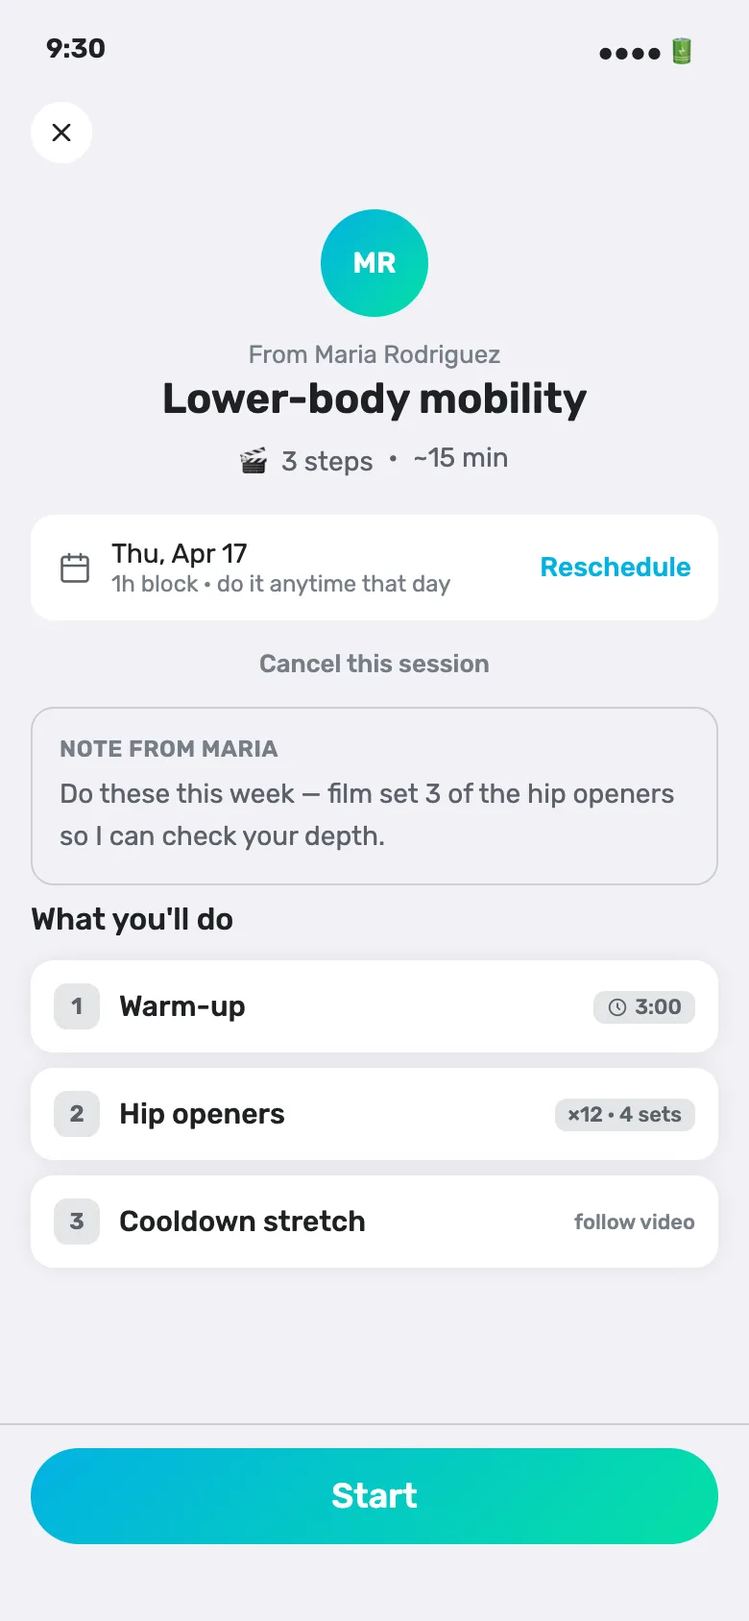
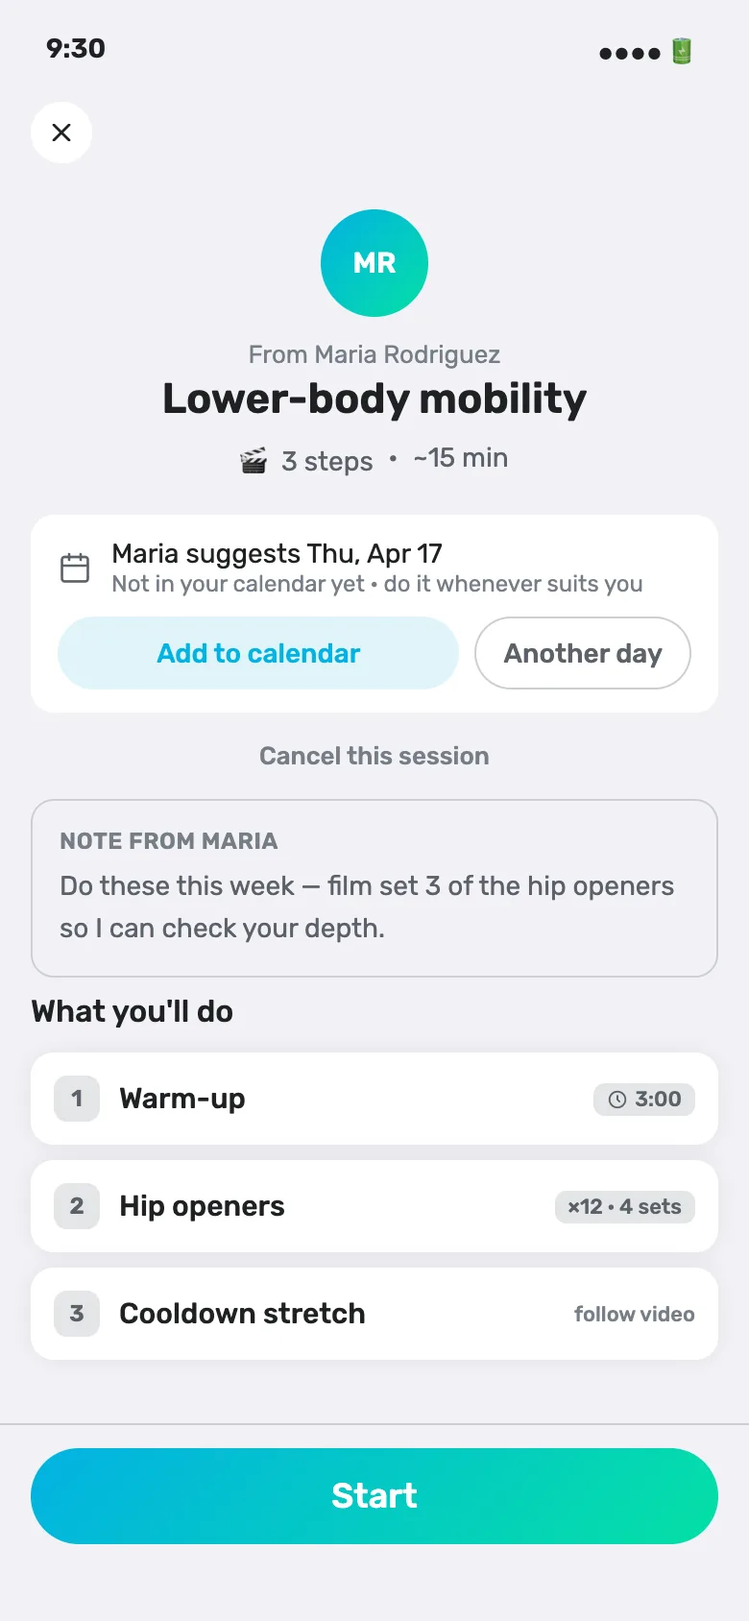
Self-paced: the athlete schedules it, the coach only suggests a day
The rule said a booked self-paced lands as a default 1-hour event in the
athlete's calendar. Nobody built it, and the reason was sitting in the
sentence: it never said at what hour, and a default block cannot be
implemented without one. It would not have been worth building either — a
block nobody chose collides with real appointments and gets dismissed, and
the reminder is what this type leans on.

So the coach's day becomes a suggestion and the athlete places it. Welcome
has two states: not in calendar, offering Add to calendar with the hour on
the canonical wheel and the day pre-filled from the coach, and Another day;
or scheduled, showing the slot and saying that only they can see it.
Scheduling never gates Start — an athlete who opened the session to train
right now must not be asked when they plan to train, and skipping it stays a
legitimate end state.

Nothing reaches the coach's calendar, because self-paced does not occupy the
coach's time. What the coach gets instead is a line inside the session:
planned, then scheduled, then completed. The hour shows only once the athlete
deliberately set one — for a do-it-whenever product, broadcasting an hour
they never chose is surveillance rather than information. Moving to another
day still notifies the coach; the hour is theirs and changing it is silent.

For the backend this moves the event creation from the coach's Send to the
athlete's scheduling action, which supersedes impl-audit gap 4 — that gap was
[…]

diff --git a/prototypes/flows/shared/self-paced.html b/prototypes/flows/shared/self-paced.html
@@ -480,7 +480,7 @@
             <div style="flex:1;min-width:0;"><div class="spq-name">Paul Weber</div><div class="spq-sub"><span class="spq-tag"><svg viewBox="0 0 24 24" fill="none" stroke="currentColor" stroke-width="2"><rect x="3" y="6" width="13" height="12" rx="2"/><path d="M16 9l5-2v10l-5-2z"/></svg>Self-paced</span> sent 2 days ago</div></div>
           </div>
           <div class="spq-title">Mobility reset</div>
-          <div class="spq-meta"><svg viewBox="0 0 24 24" fill="none" stroke="currentColor" stroke-width="2" stroke-linecap="round" stroke-linejoin="round"><circle cx="12" cy="12" r="9"/><path d="M12 7v5l3 3"/></svg>Waiting for Paul to do it · 3 steps</div>
+          <div class="spq-meta"><svg viewBox="0 0 24 24" fill="none" stroke="currentColor" stroke-width="2" stroke-linecap="round" stroke-linejoin="round"><rect x="3" y="4" width="18" height="17" rx="2"/><path d="M16 2v4M8 2v4M3 10h18"/></svg>Scheduled Thu, Apr 17 · 19:00 &middot; 3 steps</div>
         </div>
         <div class="spq">
           <div class="spq-head" style="cursor:default;">
@@ -991,11 +991,24 @@
       <div style="font-size:22px;font-weight:600;color:var(--fit-text-primary);margin-top:2px;">Lower-body mobility</div>
       <div style="font-size:14px;color:var(--fit-text-secondary);margin-top:6px;display:inline-flex;align-items:center;gap:8px;"><span>🎬 3 steps</span><span>·</span><span>~15 min</span></div>
     </div>
-    <!-- Day-bound schedule + free reschedule -->
-    <div style="margin:0 16px 16px;padding:12px 14px;border-radius:12px;background:var(--fit-surface-high);display:flex;align-items:center;gap:10px;">
-      <svg width="18" height="18" viewBox="0 0 24 24" fill="none" stroke="var(--fit-text-secondary)" stroke-width="1.8" stroke-linecap="round" stroke-linejoin="round" style="flex-shrink:0;"><rect x="3" y="4" width="18" height="17" rx="2"/><path d="M16 2v4M8 2v4M3 10h18"/></svg>
-      <div style="flex:1;min-width:0;"><div style="font-size:14px;color:var(--fit-text-primary);">Thu, Apr 17</div><div style="font-size:12px;color:var(--fit-text-tertiary);">1h block · do it anytime that day</div></div>
-      <button style="border:none;background:transparent;color:var(--fit-brand-primary);font-family:var(--fit-font);font-size:14px;font-weight:500;cursor:pointer;" onclick="document.getElementById('resched-sheet').classList.add('visible')">Reschedule</button>
+    <!-- The coach picks a DAY and it is a suggestion, not an appointment: there is no hour to
+         inherit, and a block the athlete never chose is noise they will ignore. So the athlete
+         puts it in their own calendar, with a time they picked — and that act is optional and
+         never gates Start. Nothing of this ever reaches the coach's calendar. -->
+    <div data-sched="none" style="margin:0 16px 16px;padding:12px 14px;border-radius:12px;background:var(--fit-surface-high);">
+      <div style="display:flex;align-items:center;gap:10px;">
+        <svg width="18" height="18" viewBox="0 0 24 24" fill="none" stroke="var(--fit-text-secondary)" stroke-width="1.8" stroke-linecap="round" stroke-linejoin="round" style="flex-shrink:0;"><rect x="3" y="4" width="18" height="17" rx="2"/><path d="M16 2v4M8 2v4M3 10h18"/></svg>
+        <div style="flex:1;min-width:0;"><div style="font-size:14px;color:var(--fit-text-primary);">Maria suggests Thu, Apr 17</div><div style="font-size:12px;color:var(--fit-text-tertiary);">Not in your calendar yet · do it whenever suits you</div></div>
+      </div>
+      <div style="display:flex;gap:8px;margin-top:10px;">
+        <button data-a11y-id="athlete.self-paced.schedule" style="flex:1;height:38px;border:none;border-radius:99px;background:rgba(0,167,208,0.12);color:var(--fit-brand-primary);font-family:var(--fit-font);font-size:14px;font-weight:500;cursor:pointer;" onclick="document.getElementById('sp-schedule-sheet').classList.add('visible')">Add to calendar</button>
+        <button data-a11y-id="athlete.self-paced.change-day" style="height:38px;padding:0 14px;border:1px solid var(--fit-divider);border-radius:99px;background:transparent;color:var(--fit-text-secondary);font-family:var(--fit-font);font-size:14px;font-weight:500;cursor:pointer;" onclick="document.getElementById('resched-sheet').classList.add('visible')">Another day</button>
+      </div>
+    </div>
+    <div data-sched="set" style="display:none;margin:0 16px 16px;padding:12px 14px;border-radius:12px;background:var(--fit-surface-high);align-items:center;gap:10px;">
+      <svg width="18" height="18" viewBox="0 0 24 24" fill="none" stroke="var(--fit-teal-500)" stroke-width="1.8" stroke-linecap="round" stroke-linejoin="round" style="flex-shrink:0;"><rect x="3" y="4" width="18" height="17" rx="2"/><path d="M16 2v4M8 2v4M3 10h18"/><path d="M9 15l2 2 4-4"/></svg>
+      <div style="flex:1;min-width:0;"><div style="font-size:14px;color:var(--fit-text-primary);">In your calendar &middot; <span id="sp-sched-when">Thu, Apr 17 at 19:00</span></div><div style="font-size:12px;color:var(--fit-text-tertiary);">Only you see it &mdash; never on Maria&rsquo;s calendar</div></div>
+      <button data-a11y-id="athlete.self-paced.reschedule" style="border:none;background:transparent;color:var(--fit-brand-primary);font-family:var(--fit-font);font-size:14px;font-weight:500;cursor:pointer;" onclick="document.getElementById('sp-schedule-sheet').classList.add('visible')">Change</button>
     </div>
     <div style="text-align:center;margin:-4px 16px 14px;">
       <button style="border:none;background:transparent;color:var(--fit-text-tertiary);font-family:var(--fit-font);font-size:13px;font-weight:500;cursor:pointer;" onclick="document.getElementById('sp-cancel-sheet').classList.add('visible')">Cancel this session</button>
@@ -1015,12 +1028,52 @@
     <button data-wlc="paid" onclick="go('s-player',null)" style="width:100%;height:50px;border:none;border-radius:99px;background:var(--fit-brand-gradient);color:#fff;font-family:var(--fit-font);font-size:18px;font-weight:500;cursor:pointer;">Start</button>
     <button data-wlc="unpaid" onclick="go('s-player',null)" style="width:100%;height:50px;border:none;border-radius:99px;background:var(--fit-brand-gradient);color:#fff;font-family:var(--fit-font);font-size:18px;font-weight:500;cursor:pointer;">Pay €12 &amp; start</button>
   </div>
+  <!-- Put it in the athlete's own calendar. Day defaults to the coach's suggestion; the hour is
+       the athlete's, and it is the only hour anyone ever sees. Canonical fit-wheel-picker. -->
+  <div class="fit-sheet-overlay" id="sp-schedule-sheet">
+    <div class="fit-sheet tp-sheet"><div class="fit-sheet-handle"></div>
+      <div style="font-size:18px;font-weight:600;margin-bottom:4px;">Add to your calendar</div>
+      <div style="font-size:13px;color:var(--fit-text-secondary);margin-bottom:16px;">Pick when you&rsquo;ll do it. Only you see this block &mdash; it never appears on Maria&rsquo;s calendar.</div>
+      <div class="fit-input" style="cursor:pointer;margin-bottom:14px;" onclick="document.getElementById('sp-schedule-sheet').classList.remove('visible');document.getElementById('resched-sheet').classList.add('visible')">
+        <span class="fit-input-icon"><svg class="i" viewBox="0 0 24 24" fill="none" stroke="currentColor" stroke-width="1.8" stroke-linecap="round" stroke-linejoin="round"><rect x="3" y="4" width="18" height="17" rx="2"/><path d="M16 2v4M8 2v4M3 10h18"/></svg></span>
+        Thu, Apr 17<span class="fit-input-chevron"><svg width="16" height="16" viewBox="0 0 24 24" fill="none" stroke="currentColor" stroke-width="2" stroke-linecap="round" stroke-linejoin="round"><path d="M9 18l6-6-6-6"/></svg></span>
+      </div>
+      <div class="fit-wheel-picker">
+        <div class="fit-wheel-col">
+          <span class="fit-wheel-label">Hour</span>
+          <div class="fit-wheel-scroll">
+            <div class="fit-wheel-item dim">17</div>
+            <div class="fit-wheel-item dim">18</div>
+            <div class="fit-wheel-item active">19</div>
+            <div class="fit-wheel-item dim">20</div>
+            <div class="fit-wheel-item dim">21</div>
+          </div>
+          <div class="fit-wheel-fade-top"></div>
+          <div class="fit-wheel-fade-bottom"></div>
+        </div>
+        <div class="fit-wheel-col">
+          <span class="fit-wheel-label">Minutes</span>
+          <div class="fit-wheel-scroll">
+            <div class="fit-wheel-item active">00</div>
+            <div class="fit-wheel-item dim">15</div>
+            <div class="fit-wheel-item dim">30</div>
+            <div class="fit-wheel-item dim">45</div>
+          </div>
+          <div class="fit-wheel-fade-top"></div>
+          <div class="fit-wheel-fade-bottom"></div>
+        </div>
+      </div>
+      <button class="fit-btn fit-btn-primary" data-a11y-id="athlete.self-paced.schedule.confirm" style="border-radius:99px;margin-top:20px;" onclick="spSchedule('Thu, Apr 17 at 19:00')">Add to calendar &middot; 19:00</button>
+      <button style="width:100%;height:50px;margin-top:8px;border:none;border-radius:99px;background:transparent;color:var(--fit-text-secondary);font-family:var(--fit-font);font-size:16px;font-weight:500;cursor:pointer;" onclick="document.getElementById('sp-schedule-sheet').classList.remove('visible')">Cancel</button>
+    </div>
+  </div>
+
   <!-- Reschedule sheet (day picker; coach notified only on day-change) -->
   <div class="fit-sheet-overlay" id="resched-sheet">
     <div class="fit-sheet">
       <div class="fit-sheet-handle"></div>
-      <div style="font-size:18px;font-weight:600;margin-bottom:4px;">Move to another day</div>
-      <div style="font-size:13px;color:var(--fit-text-secondary);margin-bottom:14px;">Pick a new day — you can do it anytime that day. Changing the <strong>time</strong> within a day is silent; moving to a <strong>different day</strong> lets Maria know.</div>
+      <div style="font-size:18px;font-weight:600;margin-bottom:4px;">Pick a day</div>
+      <div style="font-size:13px;color:var(--fit-text-secondary);margin-bottom:14px;">Maria suggested Thu, Apr 17 — you can do it whenever. The <strong>hour</strong> you pick stays yours; moving to a <strong>different day</strong> lets Maria know.</div>
       <div class="fit-sheet-item" onclick="document.getElementById('resched-sheet').classList.remove('visible');spSnack('Moved to Fri, Apr 18 · Maria notified')">Fri, Apr 18</div>
       <div class="fit-sheet-item" onclick="document.getElementById('resched-sheet').classList.remove('visible');spSnack('Moved to Sat, Apr 19 · Maria notified')">Sat, Apr 19</div>
       <div class="fit-sheet-item" onclick="document.getElementById('resched-sheet').classList.remove('visible');spSnack('Moved to Mon, Apr 21 · Maria notified')">Mon, Apr 21</div>
@@ -1347,10 +1400,23 @@
   </div>
 
   <div class="ann" id="ann-s-welcome"><span class="ann-role athlete">Athlete</span>
+    <div class="state-toggle">
+      <button class="active" onclick="spSchedState('none',this)">Not in calendar</button>
+      <button onclick="spSchedState('set',this)">Scheduled</button>
+    </div>
     <div class="state-toggle"><button class="active" onclick="setWlc('paid',this)">Already paid</button><button onclick="setWlc('unpaid',this)">Coach-initiated</button></div>
     <h3>Welcome / intro</h3>
     <p>What the coach prepared: title · steps · ~total time · note · step preview. Then start.</p>
     <ul><li><strong>Already paid</strong> (athlete booked) → CTA <strong>Start</strong>.</li><li><strong>Coach-initiated</strong> (coach pushed it, not yet paid) → CTA <strong>Pay €12 &amp; start</strong>.</li></ul>
+    <hr>
+    <p><strong>The coach's day is a suggestion, and putting it in a calendar is the athlete's act.</strong> The coach picks a day and never an hour — self-paced has no appointment to keep — so there is no time to inherit. The spec used to say a 1-hour block appears automatically, but it never said <em>at what hour</em>, which is exactly why it was never built: you cannot implement a default block without knowing when. And a block nobody chose is noise that gets ignored, which kills the reminder the product depends on.</p>
+    <ul>
+      <li><strong>Not in calendar</strong> (default) — "Maria suggests Thu, Apr 17 · not in your calendar yet". Two actions: <em>Add to calendar</em> (wheel picker for the hour, day pre-filled with the coach's) and <em>Another day</em>.</li>
+      <li><strong>Scheduled</strong> — "In your calendar · Thu, Apr 17 at 19:00 · only you see it".</li>
+      <li><strong>Start is never gated by either.</strong> An athlete who opened it to train right now must not be asked when they plan to train.</li>
+      <li><strong>Nothing reaches the coach's calendar</strong> — self-paced does not occupy the coach's time, so it must not occupy their grid. What the coach gets instead is a line inside the session: <em>Planned for Thu, Apr 17</em> → <em>Scheduled Thu, Apr 17 · 19:00</em> → <em>Completed Thu, Apr 17 · 19:42</em>. The hour only appears once the athlete deliberately set one — for a "do it whenever" product, broadcasting an hour they never chose would be surveillance.</li>
+    </ul>
+    <p class="note">Moving to a <strong>different day</strong> still notifies the coach; the <strong>hour</strong> is the athlete's alone and changing it is silent.</p>
   </div>
 
   <div class="ann" id="ann-s-player"><span class="ann-role athlete">Athlete</span>
@@ -1432,6 +1498,20 @@ window.addEventListener('DOMContentLoaded', function(){
 function spSetupBack(){
   if (new URLSearchParams(location.search).get('offering')) { history.back(); return; }
   go('s-queue', null);
+}
+// Scheduling is the athlete's act, so the card flips only once they have done it. The coach
+// never gets a calendar entry - they see the chosen slot inside the session instead.
+function spSchedule(when){
+  var sh=document.getElementById('sp-schedule-sheet'); if(sh) sh.classList.remove('visible');
+  var w=document.getElementById('sp-sched-when'); if(w) w.textContent=when;
+  spSchedState('set');
+  spSnack('Added to your calendar \u00b7 ' + when);
+}
+function spSchedState(state, btn){
+  if(btn){ btn.parentElement.querySelectorAll('button').forEach(function(b){b.classList.remove('active');}); btn.classList.add('active'); }
+  document.querySelectorAll('#s-welcome [data-sched]').forEach(function(el){
+    el.style.display = (el.dataset.sched===state) ? (state==='set'?'flex':'block') : 'none';
+  });
 }
 function splClearCoach(){ var el=document.getElementById('spl-coach-filter'); if(el) el.style.display='none'; }
 function setSt(id, state, btn) { if(btn){btn.parentElement.querySelectorAll('button').forEach(b=>b.classList.remove('active'));btn.classList.add('active');} var el=document.getElementById(id); el.classList.remove('ls-default','ls-empty','ls-loading'); el.classList.add('ls-'+state); }

diff --git a/prototypes/board/board-data.js b/prototypes/board/board-data.js
@@ -1542,7 +1542,7 @@ window.FIT_BOARD = {
       "screens": [
         {
           "id": "s-overview",
-          "hash": "4ed3fdcc0256",
+          "hash": "85971873aa8a",
           "title": "Overview",
           "inApp": "Self-paced — flow",
           "status": "canon",
@@ -1561,7 +1561,7 @@ window.FIT_BOARD = {
         },
         {
           "id": "s-queue",
-          "hash": "43d3d029069e",
+          "hash": "83f1fa306dd7",
           "title": "Requests + review",
           "inApp": "Self-paced",
           "status": "canon",
@@ -1589,7 +1589,7 @@ window.FIT_BOARD = {
         },
         {
           "id": "s-inbox",
-          "hash": "e176689b77ee",
+          "hash": "403bf188fcab",
           "title": "↳ in unified Inbox",
           "inApp": "Inbox",
           "status": "canon",
@@ -1609,7 +1609,7 @@ window.FIT_BOARD = {
         },
         {
           "id": "s-setup",
-          "hash": "29bb15a479a3",
+          "hash": "68948e138d1a",
           "title": "Setup builder",
           "inApp": "Set up for Anna",
           "status": "canon",
@@ -1648,7 +1648,7 @@ window.FIT_BOARD = {
         },
         {
           "id": "s-step",
-          "hash": "115ac513b942",
+          "hash": "a69e8d786b04",
           "title": "Step editor",
           "inApp": "Edit step",
           "status": "canon",
@@ -1668,7 +1668,7 @@ window.FIT_BOARD = {
         },
         {
           "id": "s-review",
-          "hash": "720d133ba684",
+          "hash": "dcb6e4891fa0",
           "title": "Review submission",
           "inApp": "Review · Julia",
           "status": "canon",
@@ -1694,7 +1694,7 @@ window.FIT_BOARD = {
         },
         {
           "id": "s-history",
-          "hash": "d6e252fe9949",
+          "hash": "05de0a3d3a24",
           "title": "Client history",
           "inApp": "Julia · self-paced",
           "status": "legacy",
@@ -1714,7 +1714,7 @@ window.FIT_BOARD = {
         },
         {
           "id": "s-library",
-          "hash": "1e886b9ec2ac",
+          "hash": "f7a22e20fc1d",
           "title": "Coach library",
           "inApp": "Video library",
           "status": "canon",
@@ -1734,7 +1734,7 @@ window.FIT_BOARD = {
         },
         {
           "id": "s-book",
-          "hash": "bf7b1b869531",
+          "hash": "cf69d2152495",
           "title": "Book offering",
           "inApp": "Book training",
           "status": "canon",
@@ -1754,7 +1754,7 @@ window.FIT_BOARD = {
         },
         {
           "id": "s-list",
-          "hash": "4406f00c2e73",
+          "hash": "07d93f6d05af",
           "title": "My self-paced",
           "inApp": "Self-paced training",
           "status": "canon",
@@ -1780,7 +1780,7 @@ window.FIT_BOARD = {
         },
         {
           "id": "s-welcome",
-          "hash": "a9a344dd62f5",
+          "hash": "e9f73ec3dde1",
           "title": "Welcome / intro",
           "inApp": "",
           "status": "canon",
@@ -1806,7 +1806,7 @@ window.FIT_BOARD = {
         },
         {
           "id": "s-player",
-          "hash": "75d2bcefb367",
+          "hash": "a2e5680f8454",
           "title": "Player",
           "inApp": "",
           "status": "canon",
@@ -1826,7 +1826,7 @@ window.FIT_BOARD = {
         },
         {
           "id": "s-complete",
-          "hash": "8c154e805b19",
+          "hash": "d73dc6809161",
           "title": "Complete + upload",
           "inApp": "Nice work 🎉",
           "status": "canon",
@@ -1846,7 +1846,7 @@ window.FIT_BOARD = {
         },
         {
           "id": "s-comments",
-          "hash": "da975b57774f",
+          "hash": "230017c5da47",
           "title": "Athlete view",
           "inApp": "Lower-body mobility",
           "status": "canon",
@@ -1872,7 +1872,7 @@ window.FIT_BOARD = {
         },
         {
           "id": "s-trim",
-          "hash": "026c31fd8fa8",
+          "hash": "ad17f279fee7",
           "title": "Trim clip",
           "inApp": "Trim clip",
           "status": "canon",
@@ -1892,7 +1892,7 @@ window.FIT_BOARD = {
         },
         {
           "id": "s-upload",
-          "hash": "cc6827f5d300",
+          "hash": "8d49f756134b",
           "title": "Uploading (Mux)",
           "inApp": "Uploading",
           "status": "canon",

diff --git a/specs/self-paced.md b/specs/self-paced.md
@@ -164,7 +164,7 @@ Two rules that follow:
 - **Athlete Dashboard** *(reworked 2026-08-26)* — the hero slot is **`Next up`**, and it holds **whatever training comes first, timed or not**. A self-paced due *today* outranks a live session *tomorrow*. Previously the card could only hold something with a clock time, so self-paced was pushed into "Needs your attention" and the dashboard **showed tomorrow above today** — and went hollow entirely for an athlete who trains mostly self-paced. The self-paced shape leads with the **workout title** (the coach is secondary, there is no venue), carries the violet type tint, and its when-line reads **"Today · anytime"** — no clock, because the day *is* the appointment.
   - Only the **overdue** self-paced stays in *Needs your attention* → `#s-welcome`. "Do it today" is not an alert, it is the plan.
   - The centred **"See all self-paced"** link was **removed** from the middle of the attention list — it read as a section footer while four unrelated rows continued below it, and existed only because it was the single global door to the aggregate list.
-  - **Athlete-side durable homes:** *upcoming* → the **Calendar** tab (a self-paced is day-bound training and lands as an athlete-only event, §9); *done* → **Profile / Your activity** (a finished self-paced is a session you did). `#s-list` is the drill-down from either. ⚠ **Blocked:** the calendar placement is not implemented — the backend never creates the `training_event`, so the athlete's day is empty (impl-audit gap 4). Until it lands, the athlete has no browse-door to `#s-list` at all, and that is deliberate rather than papered over with a link in the wrong place.
+  - **Athlete-side durable homes:** *upcoming* → the **Calendar** tab — but only for sessions the athlete actually **scheduled** (§9: the coach's day is a suggestion, the athlete places it); *done* → **Profile / Your activity** (a finished self-paced is a session you did). `#s-list` is the drill-down from either, and it remains the home for everything **unscheduled** — which is why it cannot be replaced by the calendar. ⚠ Not built yet on either platform.
   - **No standing self-paced block on the dashboard** — a list of everything done and upcoming is a *browse* surface, and the dashboard answers "what now". Same call as the coach side.
 - **Coach Client Detail** — a compact **summary card** (stat counters: To review / Active / Done) + **Assign self-paced** entry (coach-initiated). Tap the counters → a full **per-client screen** (`s-client-selfpaced`) with the sessions **grouped by status** (To set up / To review / With athlete / Done / Cancelled, count in each header) — chosen over an inline list (doesn't scale) and over tabs (tabs are for the all-clients batch hub; per-person is a bounded overview, so grouped sections match the athlete `s-list` and show the whole picture at once).
 - **Coach Offering detail** (`coach/sessions.html#s-detail-selfpaced`) — the catalogue entry itself: summary + Edit, then **one `Athletes` list** of everyone who ever bought it, ordered by what the coach owes (To set up → To review → Overdue → With athlete → Done) with an `.sp-pill` per row carrying that state. **Deliberately not a work queue** — see §9. Footer CTA **"Assign to a client"**. Empty state when the offering is live but unsold.
@@ -209,7 +209,14 @@ Get ready (3-2-1, voiced)  →  WORK set  →  Rest (voiced countdown, auto-flow
 
 **Locked (2026-06-12):**
 - **Comments thread = the session's home.** Review (coach) + Complete (athlete) are one-time **compose** screens that **post into the session's single thread**: the athlete submission (clip + structured feedback) and the coach review (rating + feedback) render as **anchor messages**, then both sides reply freely. Review→Finish lands in the thread; the player has a **Tell your coach** affordance into it. (Rejected: merging the review fully into a chat — rating-in-chat is less structured.)
-- **Day-bound, not time-bound.** Coach setup + athlete booking pick a **day** (date picker, no time). It lands as a **default 1-hour calendar event visible to the athlete only** (never on the coach's calendar), freely reschedulable; **coach notified only on a day change**. The coach sees the **time the workout was completed** in their report instead of a calendar slot. *(Intended model — fork P6 resolved; a backend task exists to build the athlete-only calendar placeholder.)*
+- **Day-bound, not time-bound — and the athlete is the one who schedules it (revised 2026-08-26).** The coach picks a **day** and never an hour; that day is a **suggestion**, not an appointment. The athlete decides whether it goes in a calendar and at what time.
+  - *Why this replaces auto-placement.* The rule used to read "lands as a default 1-hour event". It was never built, and the reason is in the sentence: it never said **at what hour**, and a default block cannot be implemented without one. Worse, a block nobody chose collides with real appointments and gets dismissed — which destroys the reminder the whole type leans on. A slot the athlete picked is a commitment; a slot the system invented is noise.
+  - **Athlete Welcome has two schedule states.** *Not in calendar* (default): "Maria suggests Thu, Apr 17 · not in your calendar yet", with **Add to calendar** (canonical `fit-wheel-picker` for the hour, day pre-filled from the coach) and **Another day**. *Scheduled*: "In your calendar · Thu, Apr 17 at 19:00 · only you see it".
+  - **Scheduling never gates `Start`.** An athlete who opened the session to train right now must not be asked when they plan to train. It is a secondary action, always skippable, and skipping it is a legitimate end state.
+  - **Nothing ever reaches the coach's calendar.** Self-paced does not occupy the coach's time, so it must not occupy their grid.
+  - **What the coach sees instead**, inside the session: `Planned for Thu, Apr 17` → `Scheduled Thu, Apr 17 · 19:00` → `Completed Thu, Apr 17 · 19:42`. **The hour appears only once the athlete deliberately set one** — for a "do it whenever" product, broadcasting an hour they never chose is surveillance, not information.
+  - **Notification rule unchanged:** moving to a **different day** notifies the coach; the **hour** is the athlete's alone and changing it is silent.
+  - *Backend:* the athlete-only event is created **when the athlete schedules it**, not on the coach's Send. (Supersedes impl-audit gap 4, which was written against the auto-placement rule.)
 - **Structured completion feedback** (replaces plain stars on the athlete side): intensity (too easy / just right / too hard, with a helper line on what the coach adjusts) + technique (struggled / OK / solid). Coach review still uses a rating + feedback text.
 - **Targets are independent** (Reps and Timer + Rest, not a one-of segment). Player plays them as a sequence (§7.1).
 - **Booking is not a new screen** — self-paced is a personal session **type**; it appears as a card in the existing Book training → Personal tab, "Self-paced · do it anytime" strip (not "Online" — avoids confusion with live online sessions), lower price.
